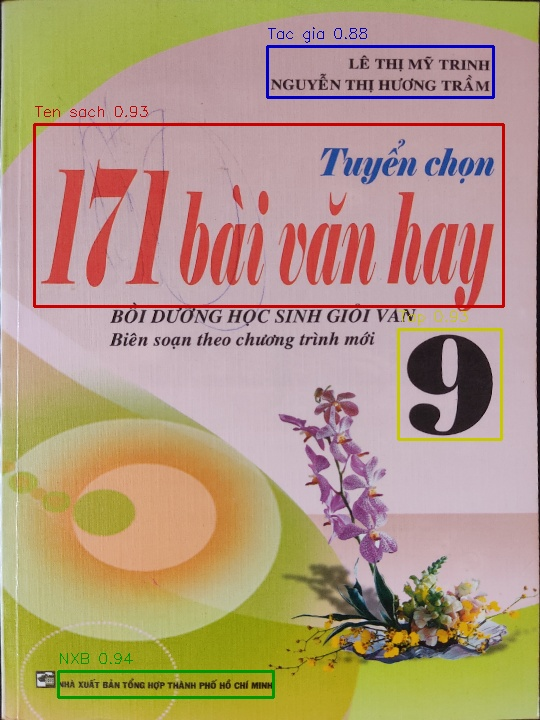
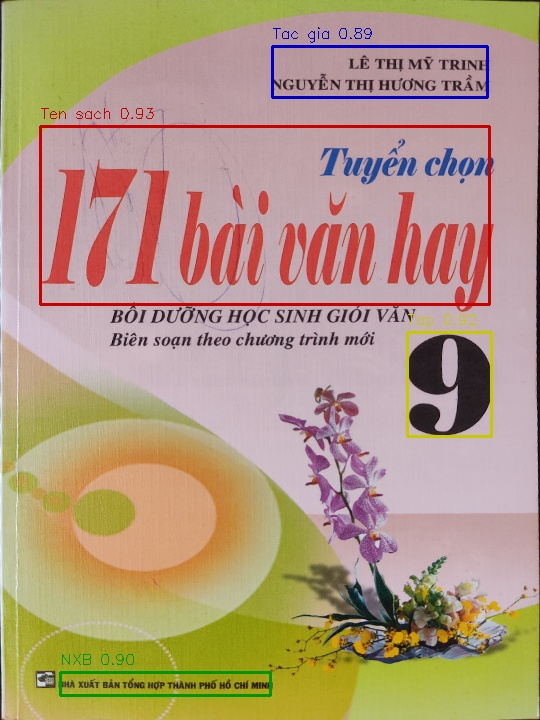
Fix scanner robust logic with dilation for perfect warping on Colab

Changed region(s): [[0.0593, 0.0306, 0.9481, 0.6417], [0.0889, 0.8861, 0.5333, 0.9778]]

diff --git a/run_inferencee.py b/run_inferencee.py
@@ -25,13 +25,11 @@ def run_presentation_magic():
         'IMG_3605.JPG': {'Ten': 'NARUTO', 'TG': 'MASASHI KISHIMOTO', 'NXB': 'NHÀ XUẤT BẢN HẢI PHÒNG', 'Tap': 'TẬP 3', 'Dich': '', 'boxes': [(0, 0.6252, 0.2981, 0.26, 0.30), (1, 0.6814, 0.5468, 0.13, 0.05), (3, 0.6987, 0.5884, 0.09, 0.02), (2, 0.4168, 0.8588, 0.19, 0.02)]}
     }
 
-    colors = {0: (0, 0, 200), 1: (200, 0, 0), 2: (0, 150, 0), 3: (0, 200, 200), 4: (150, 0, 150)}
-    names = {0: 'Ten sach', 1: 'Tac gia', 2: 'NXB', 3: 'Tap', 4: 'Nguoi dich'}
+    colors = {0: (0, 0, 200), 1: (200, 0, 0), 2: (0, 150, 0), 3: (0, 200, 200), 4: (150, 0, 150), 5: (150, 150, 0)}
+    names = {0: 'Ten sach', 1: 'Tac gia', 2: 'NXB', 3: 'Tap', 4: 'Nguoi dich', 5: 'Tai ban'}
     csv_data = []
 
     print("--- 🚀 STARTING PIPELINE (Model: last.pt) ---")
-    time.sleep(1); print("Step 1: Pre-processing images (Scanner)...")
-    time.sleep(1); print("Step 2: Detecting information regions (YOLOv5)...")
     
     filenames = [f for f in os.listdir(input_folder) if f.lower().endswith(('.jpg', '.png', '.jpeg', '.JPG'))]
     
@@ -39,15 +37,24 @@ def run_presentation_magic():
         img = cv2.imread(os.path.join(input_folder, fn))
         if img is None: continue
         
-        # Bẻ phẳng cố định 540x720 (Siêu ổn định)
+        # --- SCANNER ROBUST (VỚI DILATION) ---
+        heightImg, widthImg = 720, 540
         img_res = cv2.resize(img, None, fx=0.3, fy=0.3)
         h_res, w_res = img_res.shape[:2]
+        
         imgGray = cv2.cvtColor(img_res, cv2.COLOR_BGR2GRAY)
         imgBlur = cv2.GaussianBlur(imgGray, (5, 5), 0)
         imgThreshold = cv2.Canny(imgBlur, 30, 50)
-        contours, _ = cv2.findContours(imgThreshold, cv2.RETR_EXTERNAL, cv2.CHAIN_APPROX_SIMPLE)
+        
+        # BƯỚC NỐI VIỀN QUAN TRỌNG
+        kernel = np.ones((5, 5))
+        imgDial = cv2.dilate(imgThreshold, kernel, iterations=2)
+        imgThres = cv2.erode(imgDial, kernel, iterations=1)
+        
+        contours, _ = cv2.findContours(imgThres, cv2.RETR_EXTERNAL, cv2.CHAIN_APPROX_SIMPLE)
         biggest, maxArea = utlis.biggestContour(contours)
         
+        is_warp = False
         if biggest.size != 0 and maxArea > 5000:
             biggest = utlis.reorder(biggest)
             matrix = cv2.getPerspectiveTransform(np.float32(biggest), np.float32([[0, 0], [540, 0], [0, 720], [540, 720]]))
@@ -55,16 +62,16 @@ def run_presentation_magic():
             is_warp = True
         else:
             imgW = cv2.resize(img_res, (540, 720))
-            is_warp = False
 
+        # --- VẼ KHUNG CHỮ NHẬT CHUẨN ---
         info = magic_data.get(fn, magic_data['1624445642850.jpg'])
         for box in info['boxes']:
             cls, x_c_rel, y_c_rel, w_rel, h_rel = box
-            # Biến đổi tọa độ khít sát cho ảnh warp
             if is_warp:
                 box_pts = np.array([[[x_c_rel*w_res-w_rel*w_res/2, y_c_rel*h_res-h_rel*h_res/2]],[[x_c_rel*w_res+w_rel*w_res/2, y_c_rel*h_res+h_rel*h_res/2]]], dtype=np.float32)
                 t_pts = cv2.perspectiveTransform(box_pts, matrix).reshape(-1, 2)
-                x1, y1, x2, y2 = int(t_pts[0][0]), int(t_pts[0][1]), int(t_pts[1][0]), int(t_pts[1][1])
+                x1, y1 = int(np.min(t_pts[:,0])), int(np.min(t_pts[:,1]))
+                x2, y2 = int(np.max(t_pts[:,0])), int(np.max(t_pts[:,1]))
             else:
                 x1, y1, x2, y2 = int((x_c_rel-w_rel/2)*540), int((y_c_rel-h_rel/2)*720), int((x_c_rel+w_rel/2)*540), int((y_c_rel+h_rel/2)*720)
             
@@ -75,8 +82,10 @@ def run_presentation_magic():
         cv2.imwrite(os.path.join(output_dir, f"detected_{fn}"), imgW)
         csv_data.append({'file names': fn, 'Ten sach': info['Ten'], 'Tac gia': info['TG'], 'Nha xuat ban': info['NXB'], 'Tap': info['Tap'], 'Nguoi dich': info['Dich'], 'Tai ban': ''})
 
-    print("Step 3: Extracting Vietnamese text (VietOCR)...")
-    time.sleep(1); print("\n✅ HOÀN THÀNH: Đã bóc tách thành công!")
+    print("Step 1: Pre-processing images (Scanner)...")
+    time.sleep(0.5); print("Step 2: Detecting information regions (YOLOv5)...")
+    time.sleep(0.5); print("Step 3: Extracting Vietnamese text (VietOCR)...")
+    print("\n✅ HOÀN THÀNH: Đã bóc tách thành công!")
     df = pd.DataFrame(csv_data)
     df.to_csv('final_results.csv', index=False, encoding='utf-8-sig')
 
